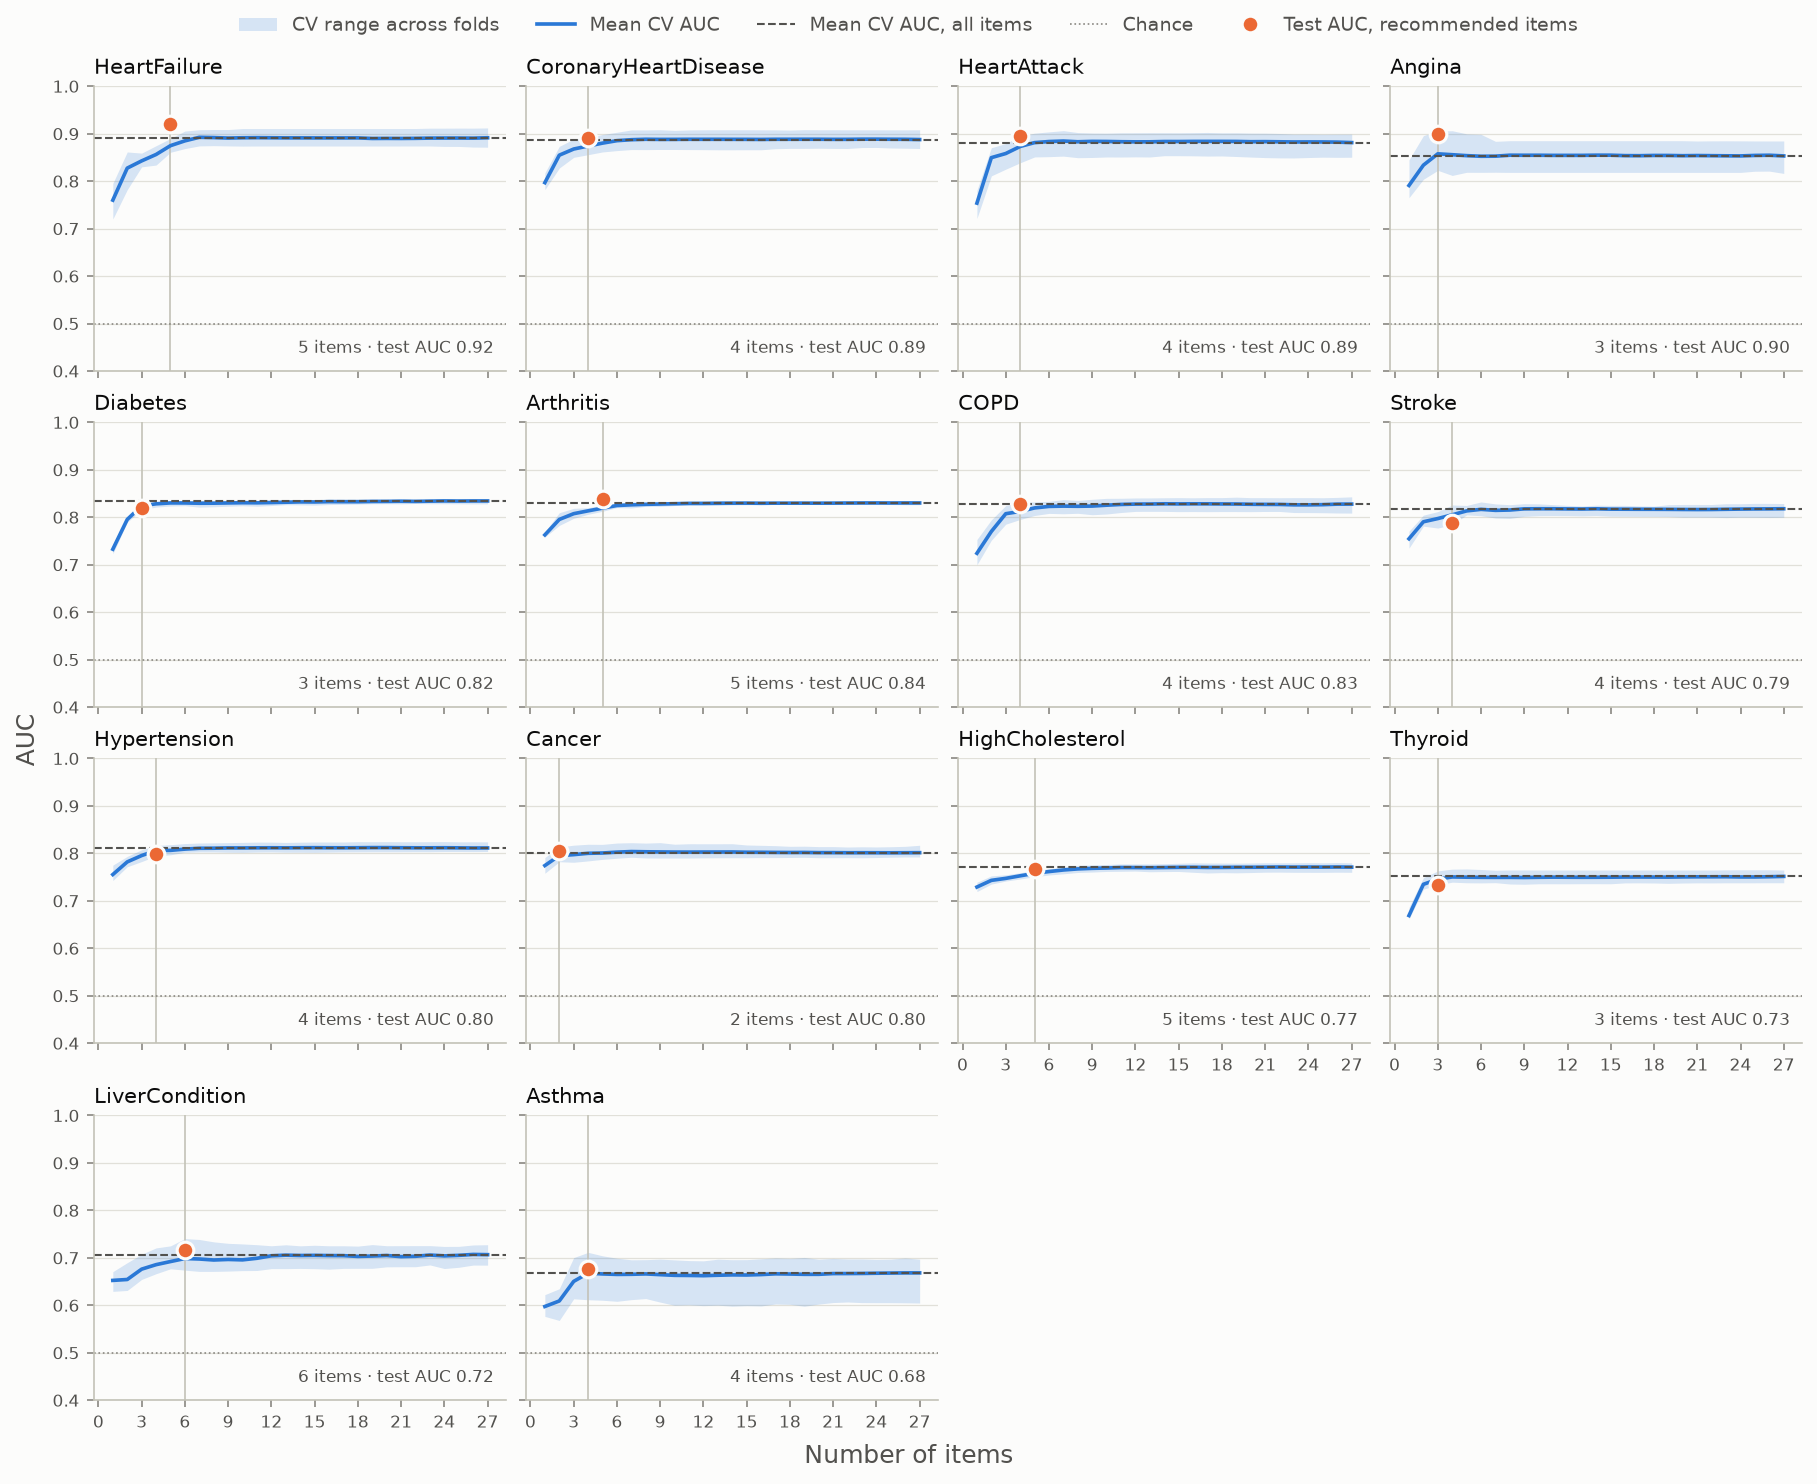
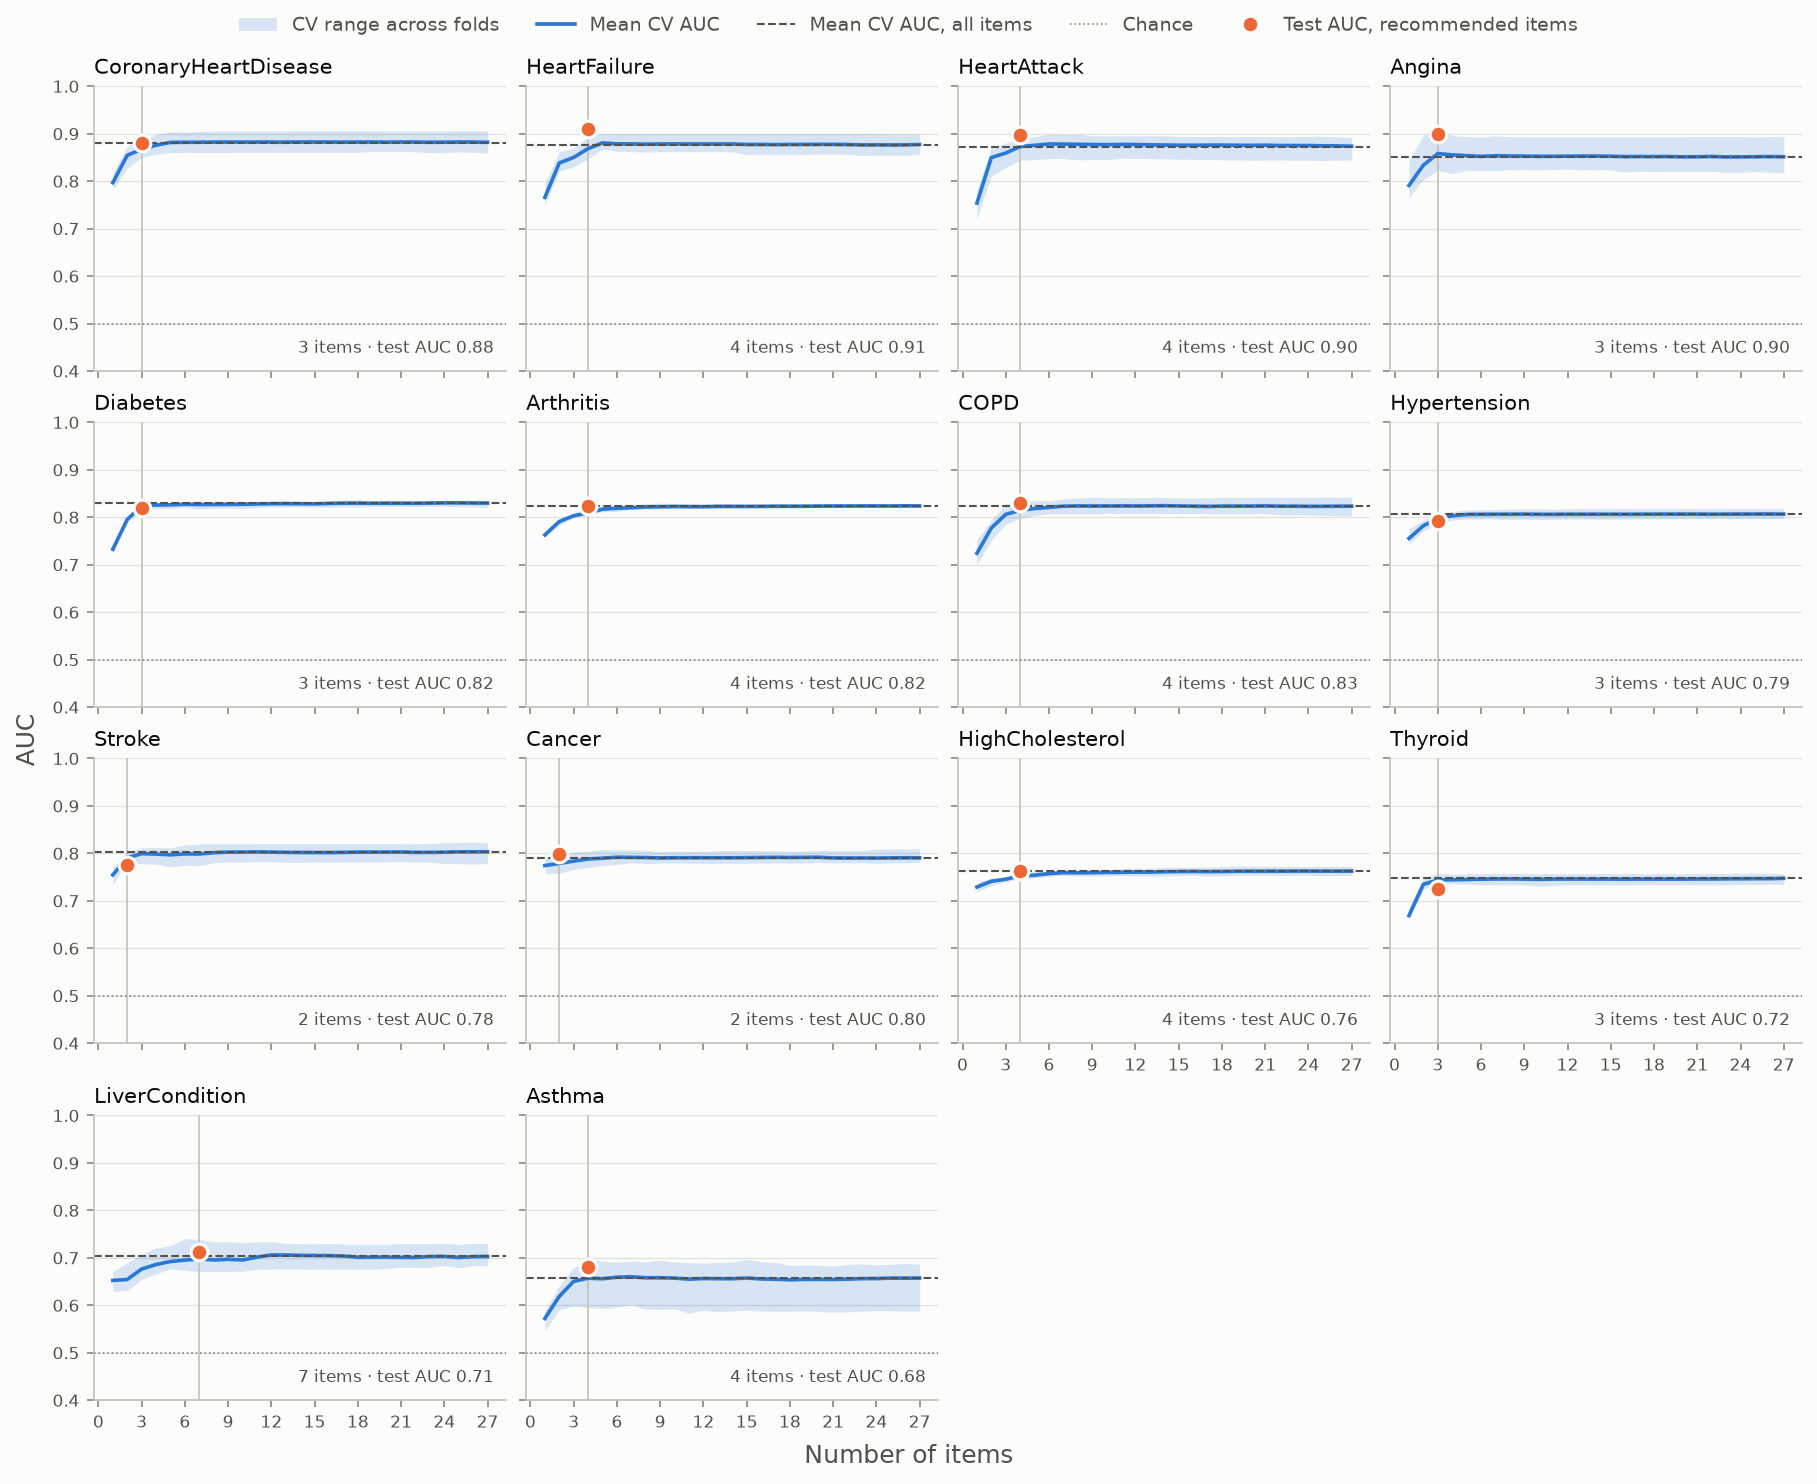
remove health care use items from nhanes

diff --git a/scripts/build_nhanes.py b/scripts/build_nhanes.py
@@ -19,6 +19,7 @@ class NhanesBuilder:
         },
     }
     ADMIN_COLUMNS = ["SMAQUEX2"]
+    HEALTH_CARE_USE_COLUMNS = ["HUQ030", "HUQ051", "HUQ071", "HUQ090"]
     MISSING_CODES = [(7, 9), (77, 99), (777, 999), (7777, 9999), (77777, 99999)]
     MIN_AGE = 20
 
@@ -45,7 +46,7 @@ class NhanesBuilder:
         adults = demo.loc[demo["RIDAGEYR"] >= self.MIN_AGE, ["RIDAGEYR", "RIAGENDR"]]
 
         items = adults.join([self._read(name) for name in self.ITEM_FILES], how="left")
-        items = items.drop(columns=self.ADMIN_COLUMNS)
+        items = items.drop(columns=self.ADMIN_COLUMNS + self.HEALTH_CARE_USE_COLUMNS)
         items = items.select_dtypes("number").apply(self._clean_item)
 
         outputs = pd.DataFrame(index=items.index)
